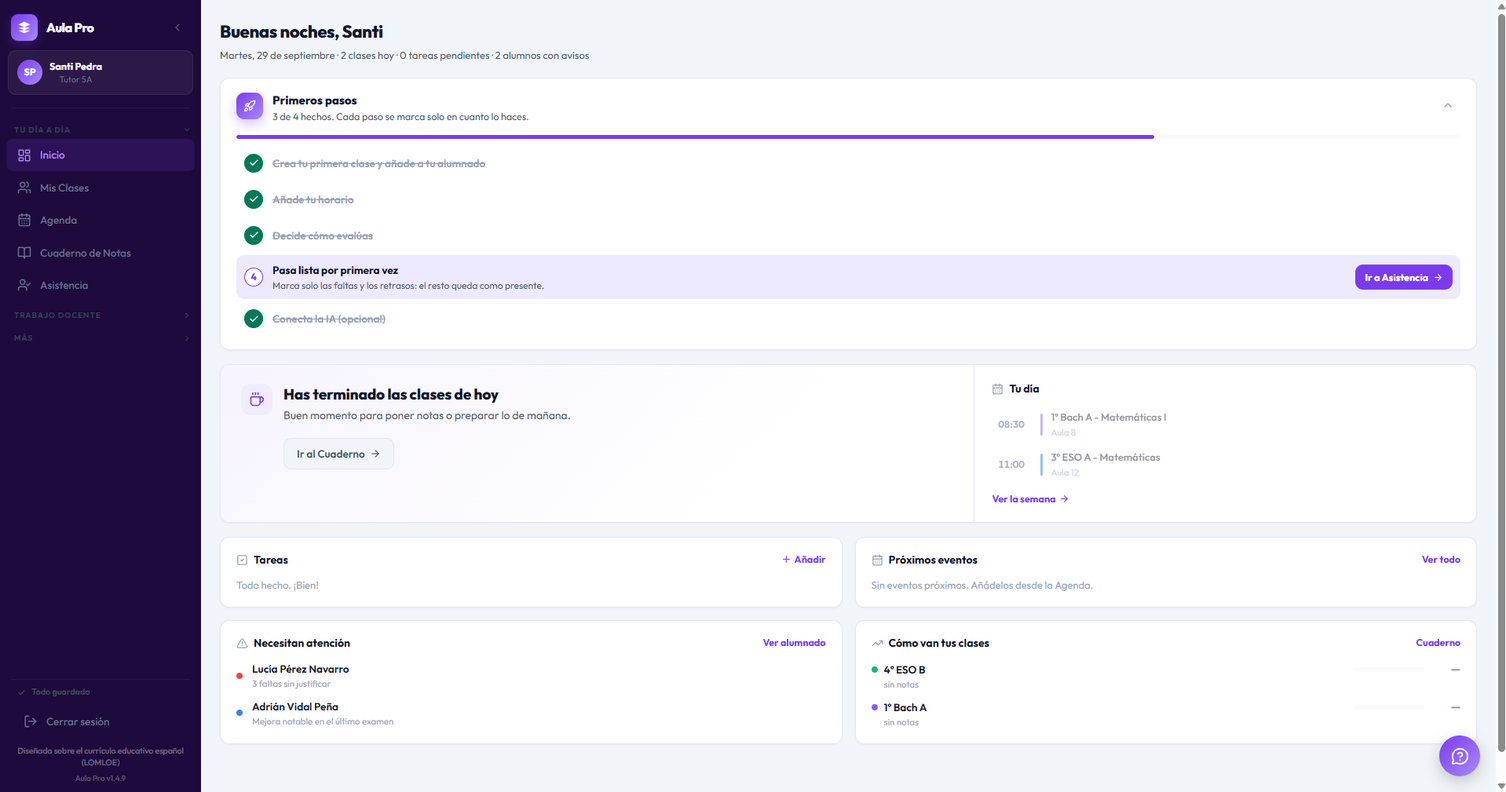
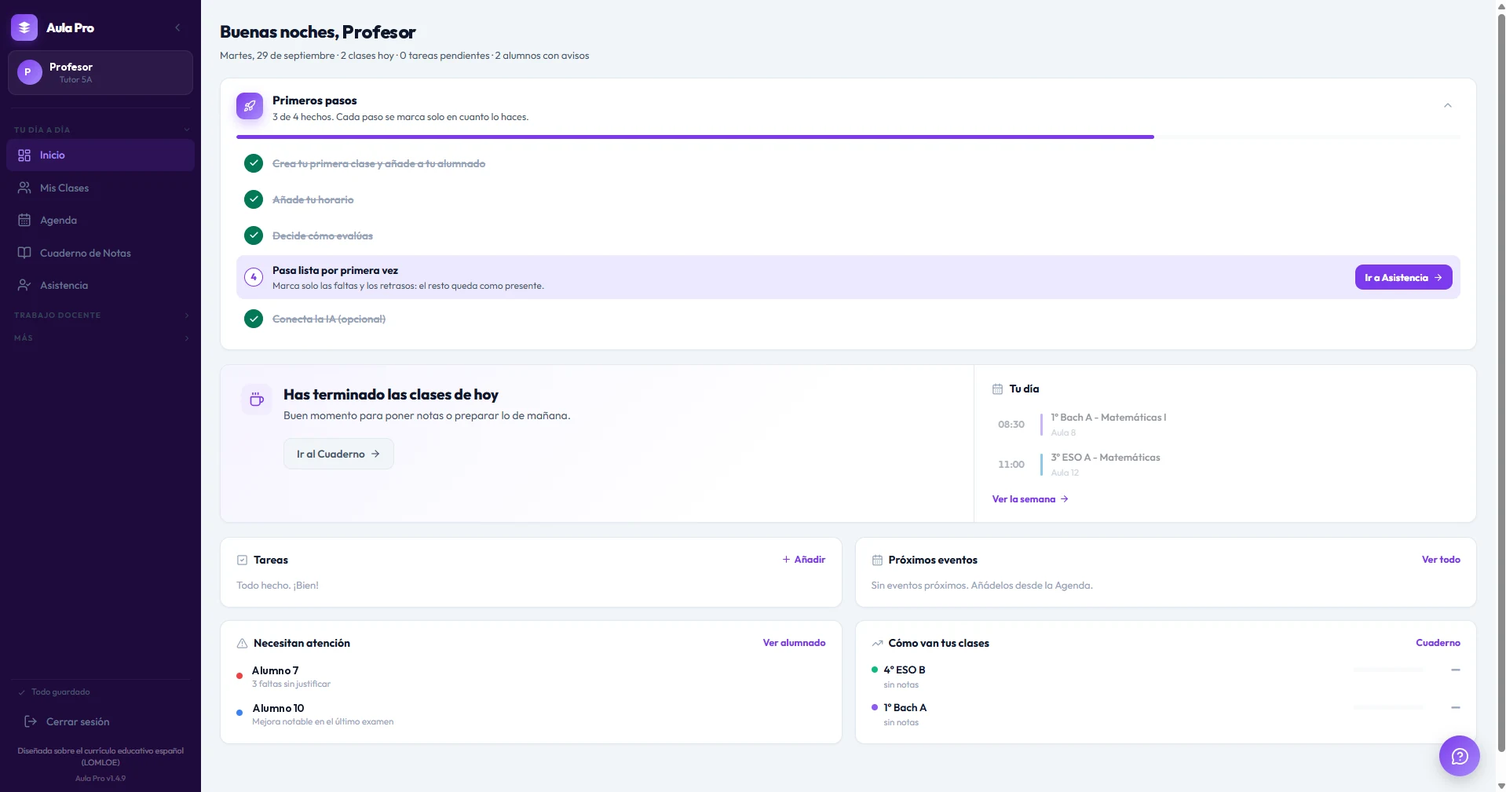
Nombres de prueba: Profesor, Alumno 1, Alumno 2…
- Datos de ejemplo de la app (general, PT y AL y EF): el docente es
  «Profesor» y el alumnado «Alumno N». nombreDePila y nombresCortos
  tratan «Alumno 7» como un nombre entero y no como «Alumno».
- Ejemplos de la ayuda, marcadores de posición y pruebas, al mismo criterio.
- Web: capturas de la portada y de la demo retocadas con los nombres nuevos,
  el disco de la ruleta y las etiquetas de demo.js y demo.html.
- CLAUDE.md, regla 7, y web/DISENO.md, sección 33.

Claude-Session: https://claude.ai/code/session_011D5JkoSKU9Gzf2MU8yBeJo

diff --git a/src/lib/demoData.ts b/src/lib/demoData.ts
@@ -13,16 +13,16 @@ export const DEMO_COMMUNITY: ComunidadId = 'comunitat-valenciana';
 export const DEMO_USER: User = {
   id: 'demo-uid-001',
   email: 'demo@aulapro.es',
-  full_name: 'Ana García Ruiz',
+  full_name: 'Profesor',
   school: 'IES Ejemplo',
   subject: 'Matemáticas',
-  initials: 'AG',
+  initials: 'P',
 };
 
 const DEMO_TASKS: Task[] = [
   { id: 't1', text: 'Corregir exámenes 3º ESO A',    priority: 'high',   done: false },
   { id: 't2', text: 'Preparar UD Fracciones',        priority: 'medium', done: false },
-  { id: 't3', text: 'Llamar a la familia de Marco R.', priority: 'high', done: false },
+  { id: 't3', text: 'Llamar a la familia de Alumno 1', priority: 'high', done: false },
   { id: 't4', text: 'Actualizar notas en Séneca',    priority: 'low',    done: true  },
 ];
 
@@ -46,19 +46,19 @@ const DEMO_CLASSES: Class[] = [
 ];
 
 const DEMO_STUDENTS: Student[] = [
-  { id:'s01', class_id:'c1', name:'Marco Rodríguez Gil',   email:'marco.r@ies.es',    photo:null, alerts:[{id:'al1',text:'Dificultades con fracciones',level:'warn'}], notes:'Necesita refuerzo en operaciones con fracciones.' },
-  { id:'s02', class_id:'c1', name:'Laura Sánchez Vega',    email:'laura.s@ies.es',    photo:null, alerts:[], notes:'' },
-  { id:'s03', class_id:'c1', name:'Pablo Martín Díaz',     email:'pablo.m@ies.es',    photo:null, alerts:[], notes:'Muy participativo.' },
-  { id:'s04', class_id:'c1', name:'Carmen López Soto',     email:'carmen.l@ies.es',   photo:null, alerts:[{id:'al2',text:'Faltas reiteradas',level:'danger'}], notes:'' },
-  { id:'s05', class_id:'c1', name:'Javier Ortega Ruiz',    email:'javier.o@ies.es',   photo:null, alerts:[], notes:'' },
-  { id:'s06', class_id:'c1', name:'Elena Castro Romero',   email:'elena.c@ies.es',    photo:null, alerts:[], notes:'' },
-  { id:'s07', class_id:'c2', name:'Lucía Pérez Navarro',   email:'lucia.p@ies.es',    photo:null, alerts:[{id:'al3',text:'3 faltas sin justificar',level:'danger'}], notes:'Tutoría con familia pendiente.' },
-  { id:'s08', class_id:'c2', name:'Daniel Gómez Herrera',  email:'daniel.g@ies.es',   photo:null, alerts:[], notes:'' },
-  { id:'s09', class_id:'c2', name:'Sara Iglesias Marín',   email:'sara.i@ies.es',     photo:null, alerts:[], notes:'' },
-  { id:'s10', class_id:'c2', name:'Adrián Vidal Peña',     email:'adrian.v@ies.es',   photo:null, alerts:[{id:'al4',text:'Mejora notable en el último examen',level:'info'}], notes:'' },
-  { id:'s11', class_id:'c3', name:'María Delgado Ferrer',  email:'maria.d@ies.es',    photo:null, alerts:[], notes:'' },
-  { id:'s12', class_id:'c3', name:'Rubén Ortiz Salas',     email:'ruben.o@ies.es',    photo:null, alerts:[], notes:'' },
-  { id:'s13', class_id:'c3', name:'Patricia Nieto Ramos',  email:'patricia.n@ies.es', photo:null, alerts:[], notes:'' },
+  { id:'s01', class_id:'c1', name:'Alumno 1',  email:'alumno1@ies.es',  photo:null, alerts:[{id:'al1',text:'Dificultades con fracciones',level:'warn'}], notes:'Necesita refuerzo en operaciones con fracciones.' },
+  { id:'s02', class_id:'c1', name:'Alumno 2',  email:'alumno2@ies.es',  photo:null, alerts:[], notes:'' },
+  { id:'s03', class_id:'c1', name:'Alumno 3',  email:'alumno3@ies.es',  photo:null, alerts:[], notes:'Muy participativo.' },
+  { id:'s04', class_id:'c1', name:'Alumno 4',  email:'alumno4@ies.es',  photo:null, alerts:[{id:'al2',text:'Faltas reiteradas',level:'danger'}], notes:'' },
+  { id:'s05', class_id:'c1', name:'Alumno 5',  email:'alumno5@ies.es',  photo:null, alerts:[], notes:'' },
+  { id:'s06', class_id:'c1', name:'Alumno 6',  email:'alumno6@ies.es',  photo:null, alerts:[], notes:'' },
+  { id:'s07', class_id:'c2', name:'Alumno 7',  email:'alumno7@ies.es',  photo:null, alerts:[{id:'al3',text:'3 faltas sin justificar',level:'danger'}], notes:'Tutoría con familia pendiente.' },
+  { id:'s08', class_id:'c2', name:'Alumno 8',  email:'alumno8@ies.es',  photo:null, alerts:[], notes:'' },
+  { id:'s09', class_id:'c2', name:'Alumno 9',  email:'alumno9@ies.es',  photo:null, alerts:[], notes:'' },
+  { id:'s10', class_id:'c2', name:'Alumno 10', email:'alumno10@ies.es', photo:null, alerts:[{id:'al4',text:'Mejora notable en el último examen',level:'info'}], notes:'' },
+  { id:'s11', class_id:'c3', name:'Alumno 11', email:'alumno11@ies.es', photo:null, alerts:[], notes:'' },
+  { id:'s12', class_id:'c3', name:'Alumno 12', email:'alumno12@ies.es', photo:null, alerts:[], notes:'' },
+  { id:'s13', class_id:'c3', name:'Alumno 13', email:'alumno13@ies.es', photo:null, alerts:[], notes:'' },
 ];
 
 const DEMO_BLOCKS: ScheduleBlock[] = [

diff --git a/src/services/appHelp.ts b/src/services/appHelp.ts
@@ -217,7 +217,7 @@ Tiene DOS PESTAÑAS arriba:
    exporta a Excel.
 2. «✨ Consulta IA»: el asistente pedagógico que SÍ VE LOS DATOS del docente
    (clases, medias, asistencia, evaluaciones, agenda). Ahí es donde se pregunta
-   «¿cómo va Marta?», «¿quién va justo en 2ºB?» o «proponme refuerzo». Se puede
+   «¿cómo va Alumno 1?», «¿quién va justo en 2ºB?» o «proponme refuerzo». Se puede
    acotar a una clase o desactivar el acceso a los datos.
 Bloque «Trabajo diario y actitud»: en cuanto se hace alguna anotación del
 aula desde la Distribución de aula, el cuaderno añade este bloque, que vale
@@ -250,7 +250,7 @@ formaron los grupos» o «Rotada N veces»), un indicador («Todos sentados» o
   roles cooperativos (Portavoz, Secretario/a, Responsable del material,
   Responsable del tiempo) y su responsabilidad.
 - «✨ Repartir con IA» abre una ventana donde se escriben, si se quiere,
-  aspectos a tener en cuenta («Marco y Lucía no deben ir juntos») y se pulsa
+  aspectos a tener en cuenta («Alumno 1 y Alumno 2 no deben ir juntos») y se pulsa
   «Generar grupos con IA». La IA reparte al alumnado real en mesas EQUILIBRADAS
   y MULTINIVEL usando la media ponderada, la asistencia y los avisos de cada
   alumno, sin inventar ninguno. Sustituye la distribución que hubiera.
@@ -876,8 +876,8 @@ export function helpSystemPrompt(lang: Lang, section: string): string {
         ? '2. Be brief and practical: the exact route (“Sidebar → My Classes → New class”) and the steps in order. Two or three short paragraphs at most, or a short list.'
         : '2. Sé breve y práctico: la ruta exacta («barra lateral → Mis Clases → Nueva clase», o «Documentos → Actas» para las pantallas agrupadas) y los pasos en orden. Dos o tres párrafos cortos como mucho, o una lista breve.',
       lang === 'en'
-        ? '3. You do NOT see the teacher\'s classes, students or marks. If they ask about their own data (“how is Marta doing?”), point them to the Gradebook’s “Consulta IA” tab, which does.'
-        : '3. TÚ NO VES las clases, los alumnos ni las notas de este docente. Si te preguntan por sus datos («¿cómo va Marta?»), mándalos a la pestaña «Consulta IA» del Cuaderno de Notas, que es la que sí los ve.',
+        ? '3. You do NOT see the teacher\'s classes, students or marks. If they ask about their own data (“how is Student 1 doing?”), point them to the Gradebook’s “Consulta IA” tab, which does.'
+        : '3. TÚ NO VES las clases, los alumnos ni las notas de este docente. Si te preguntan por sus datos («¿cómo va Alumno 1?»), mándalos a la pestaña «Consulta IA» del Cuaderno de Notas, que es la que sí los ve.',
       lang === 'en'
         ? '4. When your answer points to one screen, end the message with its marker on its own line: [IR:id] (for example [IR:classes]). Only one, only from the manual’s ids, and never mention the marker in the text.'
         : '4. Cuando tu respuesta lleve a una pantalla concreta, termina el mensaje con su marca en una línea aparte: [IR:id] (por ejemplo [IR:classes]). Solo una, solo de los identificadores del manual, y no menciones nunca la marca en el texto.',

diff --git a/src/lib/demoApoyo.ts b/src/lib/demoApoyo.ts
@@ -10,7 +10,7 @@ import type {
 } from '../types/apoyo';
 
 export const DEMO_APOYO_USER = {
-  full_name: 'Laura Martí Navarro',
+  full_name: 'Profesor',
   school: 'CEIP Ejemplo',
   subject: 'Pedagogía Terapéutica y Audición y Lenguaje',
 };
@@ -28,13 +28,13 @@ export function buildDemoApoyo(hoy: Date = new Date()): ApoyoData {
     categorias, diagnostico, necesidades, notas: '',
   });
   const alumnos = [
-    al('demo-a1', 'Marta Gil Soler', '4º B', 4, 2, ['Discapacidad intelectual'], 'Discapacidad intelectual leve',
+    al('demo-a1', 'Alumno 1', '4º B', 4, 2, ['Discapacidad intelectual'], 'Discapacidad intelectual leve',
       'Le cuesta mantener la atención más de diez minutos. Aprende mejor con apoyo visual y tareas cortas. Se motiva con los juegos.'),
-    al('demo-a2', 'Pau Ruiz Ferrer', '3º A', 3, 2, ['Dificultades específicas de aprendizaje (dislexia, discalculia…)', 'Trastorno por déficit de atención e hiperactividad (TDAH)'], 'Dislexia y TDAH',
+    al('demo-a2', 'Alumno 2', '3º A', 3, 2, ['Dificultades específicas de aprendizaje (dislexia, discalculia…)', 'Trastorno por déficit de atención e hiperactividad (TDAH)'], 'Dislexia y TDAH',
       'Lectura lenta, con sustituciones de letras. Buena comprensión oral y mucho interés por los animales.'),
-    al('demo-a3', 'Aitana López Vidal', '2º A', 2, 1, ['Trastorno del desarrollo del lenguaje y la comunicación'], 'Trastorno del desarrollo del lenguaje (TDL)',
+    al('demo-a3', 'Alumno 3', '2º A', 2, 1, ['Trastorno del desarrollo del lenguaje y la comunicación'], 'Trastorno del desarrollo del lenguaje (TDL)',
       'Frases cortas y vocabulario reducido. Entiende mejor con imágenes y gestos.'),
-    al('demo-a4', 'Hugo Sanz Moreno', '5º A', 5, 3, ['Trastorno del espectro del autismo (TEA)', 'Discapacidad motora'], 'TEA; hemiparesia leve en el lado derecho',
+    al('demo-a4', 'Alumno 4', '5º A', 5, 3, ['Trastorno del espectro del autismo (TEA)', 'Discapacidad motora'], 'TEA; hemiparesia leve en el lado derecho',
       'Necesita anticipación y agenda visual. Le cuesta la interacción en grupo y la escritura a mano; muy buena memoria visual.'),
   ];
   const f = (dia: number, inicio: string, fin: string) => ({ dia, inicio, fin });

diff --git a/src/i18n/core.ts b/src/i18n/core.ts
@@ -1668,7 +1668,7 @@ const EN: Record<string, string> = {
   'Convoca': 'Called by',
   'Entidad y ponente': 'Provider and trainer',
   'Ej: Jefatura de estudios': 'e.g. Head of studies',
-  'Ej: CEFIRE · Marta Ruiz': 'e.g. Teacher training centre · Marta Ruiz',
+  'Ej: CEFIRE · Profesor': 'e.g. Teacher training centre · Teacher',
   'Lugar': 'Place',
   'Ej: Sala de profesores': 'e.g. Staff room',
   'Ej: En línea': 'e.g. Online',
@@ -1755,7 +1755,7 @@ const EN: Record<string, string> = {
   '(asiento libre)': '(empty seat)',
   'Alumnos por mesa': 'Students per table',
   'Anota las conclusiones y los acuerdos del grupo.': 'Notes down the group\'s conclusions and agreements.',
-  'Aspectos a tener en cuenta (opcional): p. ej. «Marco y Lucía no deben ir juntos»': 'Anything to bear in mind (optional): e.g. “Marco and Lucía shouldn\'t be together”',
+  'Aspectos a tener en cuenta (opcional): p. ej. «Alumno 1 y Alumno 2 no deben ir juntos»': 'Anything to bear in mind (optional): e.g. “Student 1 and Student 2 shouldn\'t be together”',
   'Aula {room}': 'Room {room}',
   'Configuración de mesas y roles': 'Table and role settings',
   'Controla el tiempo de la tarea y el volumen de voz.': 'Keeps track of time and the noise level.',
@@ -1831,7 +1831,7 @@ const EN: Record<string, string> = {
   'Arrastra a un alumno hasta un asiento, o tócalo y después toca el asiento.': 'Drag a student onto a seat, or tap them and then tap the seat.',
   'Se sustituirá la distribución actual de {clase}.': 'This will replace the current layout for {clase}.',
   'Aspectos a tener en cuenta (opcional)': 'Anything to bear in mind (optional)',
-  'p. ej. «Marco y Lucía no deben ir juntos»': 'e.g. “Marco and Lucía shouldn\'t be together”',
+  'p. ej. «Alumno 1 y Alumno 2 no deben ir juntos»': 'e.g. “Student 1 and Student 2 shouldn\'t be together”',
 
   /* ── Licencia ── */
   "Esa clave no existe. Cópiala tal cual del correo que recibiste al comprar.": "That key doesn't exist. Copy it exactly as it appears in your purchase email.",

diff --git a/src/i18n/ca.ts b/src/i18n/ca.ts
@@ -1495,7 +1495,7 @@ export const CA: Record<string, string> = {
   "Convoca": "Convoca",
   "Entidad y ponente": "Entitat i ponent",
   "Ej: Jefatura de estudios": "Ex.: Cap d'estudis",
-  "Ej: CEFIRE · Marta Ruiz": "Ex.: CRP · Marta Ruiz",
+  "Ej: CEFIRE · Profesor": "Ex.: CRP · Professor",
   "Lugar": "Lloc",
   "Ej: Sala de profesores": "Ex.: Sala de professors",
   "Ej: En línea": "Ex.: En línia",
@@ -1548,7 +1548,7 @@ export const CA: Record<string, string> = {
   "(asiento libre)": "(seient lliure)",
   "Alumnos por mesa": "Alumnes per taula",
   "Anota las conclusiones y los acuerdos del grupo.": "Anota les conclusions i els acords del grup.",
-  "Aspectos a tener en cuenta (opcional): p. ej. «Marco y Lucía no deben ir juntos»": "Aspectes que cal tenir en compte (opcional): p. ex. «Marc i Lúcia no han d'anar junts»",
+  "Aspectos a tener en cuenta (opcional): p. ej. «Alumno 1 y Alumno 2 no deben ir juntos»": "Aspectes que cal tenir en compte (opcional): p. ex. «Alumne 1 i Alumne 2 no han d'anar junts»",
   "Aula {room}": "Aula {room}",
   "Configuración de mesas y roles": "Configuració de taules i rols",
   "Controla el tiempo de la tarea y el volumen de voz.": "Controla el temps de la tasca i el volum de veu.",
@@ -1620,7 +1620,7 @@ export const CA: Record<string, string> = {
   "Arrastra a un alumno hasta un asiento, o tócalo y después toca el asiento.": "Arrossega un alumne fins a un seient, o toca'l i després toca el seient.",
   "Se sustituirá la distribución actual de {clase}.": "Se substituirà la distribució actual de {clase}.",
   "Aspectos a tener en cuenta (opcional)": "Aspectes que cal tenir en compte (opcional)",
-  "p. ej. «Marco y Lucía no deben ir juntos»": "p. ex. «Marc i Lúcia no han d'anar junts»",
+  "p. ej. «Alumno 1 y Alumno 2 no deben ir juntos»": "p. ex. «Alumne 1 i Alumne 2 no han d'anar junts»",
   "Emoji": "Emoji",
   "Horario": "Horari",
   "Castellano, catalán o inglés internacional.": "Castellà, català o anglès internacional.",

diff --git a/src/pages/Welcome.tsx b/src/pages/Welcome.tsx
@@ -4,7 +4,7 @@ import { Sparkles, Plus, ArrowRight, Trash2, HardDrive, Lock } from 'lucide-reac
 import { listProfiles, deleteProfile, isDesktop, type TeacherProfile, type NewProfileInput } from '../services/storage';
 import { CommunitySelect } from '../components/CommunitySelect';
 import type { ComunidadId } from '../lib/curriculum/comunidades';
-import { DEMO_COMMUNITY } from '../lib/demoData';
+import { DEMO_COMMUNITY, DEMO_USER } from '../lib/demoData';
 import { DEMO_APOYO_USER } from '../lib/demoApoyo';
 import { DEMO_EF_USER } from '../lib/demoEF';
 import { initials } from '../lib/utils';
@@ -212,7 +212,7 @@ export function Welcome({ onOpenProfile, onCreateProfile, onExploreDemo }: Props
         <form onSubmit={submit}>
           <div className="fgroup">
             <label className="flabel" htmlFor="welcome-f1">{t('Tu nombre *')}</label>
-            <input id="welcome-f1" className="finput" value={name} autoFocus placeholder="Ana García Ruiz"
+            <input id="welcome-f1" className="finput" value={name} autoFocus placeholder={t('Profesor')}
               onChange={e => { setName(e.target.value); if (error) setError(''); }} />
           </div>
           <TipoDocentePicker
@@ -274,7 +274,7 @@ export function Welcome({ onOpenProfile, onCreateProfile, onExploreDemo }: Props
                 especialidades: especialidades.length ? especialidades : ['PT', 'AL'],
                 subject: t(especialidadTexto(especialidades.length ? especialidades : ['PT', 'AL'])),
               }
-              : { name: 'Ana García Ruiz', school: 'IES Ejemplo', subject: 'Matemáticas', course: currentCourse(), community: DEMO_COMMUNITY })}
+              : { name: DEMO_USER.full_name, school: 'IES Ejemplo', subject: 'Matemáticas', course: currentCourse(), community: DEMO_COMMUNITY })}
             style={{
               display: 'flex', alignItems: 'center', justifyContent: 'center', gap: 7,
               width: '100%', marginTop: 14, padding: '11px 0', background: 'none',

diff --git a/src/pages/ef/EfEquipos.test.tsx b/src/pages/ef/EfEquipos.test.tsx
@@ -16,7 +16,7 @@ import type { AttendanceMap } from '../../types';
 
 const demo = buildDemoEF(new Date(2026, 9, 5));
 let ultimo: EfData = demo.ef;
-// Iker falta hoy en 1º ESO A
+// Alumno 2 falta hoy en 1º ESO A
 const attendance: AttendanceMap = { 'ef-c1': { '2026-10-05': { 'ef-s01': 'absent' } } };
 function Harness() {
   const [ef, setEf] = useState(demo.ef);
@@ -50,7 +50,7 @@ describe('Equipos', () => {
     expect(grupos).toHaveLength(3);
     expect(grupos.flat()).toHaveLength(7);
     expect(grupos.flat()).not.toContain('ef-s01');
-    // Mateo está lesionado: juega en su equipo, con su limitación y qué hace
+    // Alumno 4 está lesionado: juega en su equipo, con su limitación y qué hace
     expect(grupos.flat()).toContain('ef-s03');
     expect(screen.getAllByText(/No puede correr/).length).toBeGreaterThan(0);
 
@@ -66,10 +66,10 @@ describe('Equipos', () => {
   it('el nivel y el sexo se marcan en la tabla, y las parejas que separar se añaden', async () => {
     const user = userEvent.setup();
     render(<Harness />);
-    await user.click(within(screen.getByRole('radiogroup', { name: 'Nivel de Nora Ferrer Gil' })).getByRole('radio', { name: '3' }));
+    await user.click(within(screen.getByRole('radiogroup', { name: 'Nivel de Alumno 1' })).getByRole('radio', { name: '3' }));
     expect(ultimo.niveles['ef-s00']).toBe(3);
     // Otro toque en el sexo marcado lo quita
-    await user.click(within(screen.getByRole('radiogroup', { name: 'Sexo de Nora Ferrer Gil' })).getByRole('radio', { name: 'Chica' }));
+    await user.click(within(screen.getByRole('radiogroup', { name: 'Sexo de Alumno 1' })).getByRole('radio', { name: 'Chica' }));
     expect(ultimo.sexos['ef-s00']).toBeUndefined();
 
     await user.selectOptions(screen.getByLabelText('Primer alumno de la pareja'), 'ef-s02');

diff --git a/web/sitio/assets/demo.js b/web/sitio/assets/demo.js
@@ -140,8 +140,8 @@
         [993, 725, 1056, 747, 't:task', 'Añadir tarea'],
         [1807, 725, 1864, 747, 'go:agenda', 'Ver todo'],
         [967, 831, 1056, 853, 'go:misclases', 'Ver alumnado'],
-        [297, 862, 560, 906, 'go:misclases', 'Lucía Pérez Navarro'],
-        [297, 910, 560, 954, 'go:misclases', 'Adrián Vidal Peña'],
+        [297, 862, 560, 906, 'go:misclases', 'Alumno 7'],
+        [297, 910, 560, 954, 'go:misclases', 'Alumno 10'],
         [1799, 831, 1864, 853, 'go:cuaderno', 'Cuaderno'],
         [1103, 862, 1300, 906, 'go:cuaderno', '4.º ESO B'],
         [1103, 910, 1300, 954, 'go:cuaderno', '1.º Bach A'],
@@ -206,10 +206,10 @@
         [833, 300, 1058, 425, 't:seat', 'Mesa 3'],
         [1103, 300, 1327, 425, 't:seat', 'Mesa 4'],
         [1372, 300, 1596, 425, 't:seat', 'Mesa 5'],
-        [295, 443, 519, 495, 't:student', 'Adrián Vidal Peña'],
-        [564, 443, 788, 514, 't:student', 'Daniel Gómez Herrera'],
-        [833, 443, 1058, 514, 't:student', 'Lucía Pérez Navarro'],
-        [1103, 443, 1327, 495, 't:student', 'Sara Iglesias Marín'],
+        [295, 443, 519, 495, 't:student', 'Alumno 10'],
+        [564, 443, 788, 514, 't:student', 'Alumno 8'],
+        [833, 443, 1058, 514, 't:student', 'Alumno 7'],
+        [1103, 443, 1327, 495, 't:student', 'Alumno 9'],
         [1832, 959, 1886, 1013, 't:help', 'Ayuda']
       ]
     },
@@ -732,7 +732,7 @@
     paintTimer();
 
     /* --- roulette --- */
-    const NAMES = ['Lucía', 'Daniel', 'Sara', 'Adrián', 'María', 'Rubén', 'Patricia'];
+    const NAMES = ['Alumno 7', 'Alumno 8', 'Alumno 9', 'Alumno 10', 'Alumno 11', 'Alumno 12', 'Alumno 13'];
     const disc = new Image();
     disc.className = 'disc';
     disc.alt = '';

diff --git a/src/pages/Reports.tsx b/src/pages/Reports.tsx
@@ -7,7 +7,7 @@ import type {
   GradeMap, AttendanceMap, CompetencyReport,
 } from '../types';
 import { callGemini, hasApiKey } from '../services/gemini';
-import { isoDate, PERIODS, LOMLOE_COMPETENCES } from '../lib/utils';
+import { isoDate, PERIODS, LOMLOE_COMPETENCES, nombreDePila } from '../lib/utils';
 import { useToast } from '../components/ui/Toast';
 import { ClassChips } from '../components/ui/ClassChips';
 import { AiKeyNotice } from '../components/ui/AiKeyNotice';
@@ -183,7 +183,7 @@ export function Reports(props: Props) {
   async function generateFor(student: Student): Promise<boolean> {
     const { text: evidence, hasData } = buildEvidence(student);
     if (!hasData) {
-      toast(`${student.name.split(' ')[0]} ${t('no tiene evaluaciones ni notas todavía')}`);
+      toast(`${nombreDePila(student.name)} ${t('no tiene evaluaciones ni notas todavía')}`);
       return false;
     }
 
@@ -581,7 +581,7 @@ function EmptyReport({
           {t('Sin datos suficientes')}
         </h3>
         <p style={{ fontSize: 13, color: 'var(--text-2)', lineHeight: 1.6, maxWidth: 400, margin: '0 auto 20px' }}>
-          {t('{name} no tiene todavía evaluaciones ni notas en el cuaderno. Un informe sin datos serían solo frases genéricas, así que es mejor evaluarle antes.', { name: student.name.split(' ')[0] })}
+          {t('{name} no tiene todavía evaluaciones ni notas en el cuaderno. Un informe sin datos serían solo frases genéricas, así que es mejor evaluarle antes.', { name: nombreDePila(student.name) })}
         </p>
         <div style={{ display: 'flex', gap: 10, justifyContent: 'center' }}>
           <button className="btn-ghost" onClick={() => onNav('rubrics')}>{t('Ir a Evaluación')}</button>

diff --git a/src/lib/demoEF.ts b/src/lib/demoEF.ts
@@ -8,7 +8,7 @@ import type { EfData, MarcaPrueba } from '../types/ef';
 import { EF_VACIO, hacerEquipos } from './ef';
 
 export const DEMO_EF_USER = {
-  full_name: 'Jordi Puig Serra',
+  full_name: 'Profesor',
   school: 'IES Ejemplo',
   subject: 'Educación Física',
 };
@@ -21,12 +21,12 @@ const clase = (id: string, name: string, curso: number, color: string): Class =>
 });
 
 const NOMBRES: [string, 'F' | 'M'][][] = [
-  [['Nora Ferrer Gil', 'F'], ['Iker Moreno Pastor', 'M'], ['Lucía Soler Vidal', 'F'], ['Mateo Ruiz Ortega', 'M'],
-    ['Aya Benali Romero', 'F'], ['Hugo Navarro Ríos', 'M'], ['Vega Martí Sanz', 'F'], ['Leo Castillo Prieto', 'M']],
-  [['Sofía Lozano Peña', 'F'], ['Álex Molina Torres', 'M'], ['Carla Rubio Méndez', 'F'], ['Izan Garrido León', 'M'],
-    ['Emma Herrero Cano', 'F'], ['Bruno Santos Vega', 'M'], ['Lola Iglesias Pons', 'F'], ['Marc Domènech Roca', 'M']],
-  [['Paula Crespo Nieto', 'F'], ['Daniel Vicente Mora', 'M'], ['Inés Gallego Solà', 'F'], ['Pablo Esteve Marín', 'M'],
-    ['Julia Pascual Ibáñez', 'F'], ['Adrián Blasco Ferrer', 'M'], ['Martina Sáez Llopis', 'F'], ['Hugo Bravo Cortés', 'M']],
+  [['Alumno 1', 'F'], ['Alumno 2', 'M'], ['Alumno 3', 'F'], ['Alumno 4', 'M'],
+    ['Alumno 5', 'F'], ['Alumno 6', 'M'], ['Alumno 7', 'F'], ['Alumno 8', 'M']],
+  [['Alumno 9', 'F'], ['Alumno 10', 'M'], ['Alumno 11', 'F'], ['Alumno 12', 'M'],
+    ['Alumno 13', 'F'], ['Alumno 14', 'M'], ['Alumno 15', 'F'], ['Alumno 16', 'M']],
+  [['Alumno 17', 'F'], ['Alumno 18', 'M'], ['Alumno 19', 'F'], ['Alumno 20', 'M'],
+    ['Alumno 21', 'F'], ['Alumno 22', 'M'], ['Alumno 23', 'F'], ['Alumno 24', 'M']],
 ];
 
 export function buildDemoEF(hoy: Date = new Date()) {

diff --git a/src/pages/ClassroomLive.tsx b/src/pages/ClassroomLive.tsx
@@ -4,7 +4,7 @@ import {
   ClipboardCheck, Plus, Trash2, Monitor, Wifi, ArrowRight, Save, Target,
 } from 'lucide-react';
 import type { Class, Student, Rubric, EvalDiana, SelfAssessmentSession } from '../types';
-import { isoDate } from '../lib/utils';
+import { isoDate, nombreDePila } from '../lib/utils';
 import type { ClassroomActivity, ClassroomSnapshot } from '../types/electron';
 import { SessionQR } from '../components/share/SessionQR';
 import { useToast } from '../components/ui/Toast';
@@ -506,7 +506,7 @@ function ResultsPanel({
 
       {pending.length > 0 && responses.length > 0 && (
         <p style={{ fontSize: 12, color: 'var(--text-3)', marginTop: 14, paddingTop: 12, borderTop: '0.5px solid var(--border)', lineHeight: 1.5 }}>
-          <strong>{t('Faltan:')}</strong> {pending.slice(0, 12).map(p => `${p.n}. ${p.name.split(' ')[0]}`).join(' · ')}
+          <strong>{t('Faltan:')}</strong> {pending.slice(0, 12).map(p => `${p.n}. ${nombreDePila(p.name)}`).join(' · ')}
           {pending.length > 12 && t(' y {n} más', { n: pending.length - 12 })}
         </p>
       )}
@@ -556,7 +556,7 @@ function BrainstormResults({ responses }: { responses: ClassroomSnapshot['respon
           }}
         >
           <div style={{ fontSize: 13, color: 'var(--text)', lineHeight: 1.45 }}>{x.idea}</div>
-          <div style={{ fontSize: 11, color: 'var(--text-3)', marginTop: 5 }}>{x.who.split(' ')[0]}</div>
+          <div style={{ fontSize: 11, color: 'var(--text-3)', marginTop: 5 }}>{nombreDePila(x.who)}</div>
         </div>
       ))}
     </div>

diff --git a/src/pages/apoyo/InicioApoyo.tsx b/src/pages/apoyo/InicioApoyo.tsx
@@ -9,7 +9,7 @@ import {
   CalendarDays, AlertTriangle, TrendingUp, ArrowRight, Check, Clock, Coffee, ChevronDown, Sparkles,
 } from 'lucide-react';
 import { useI18n } from '../../i18n';
-import { isoDate, fromIsoDate } from '../../lib/utils';
+import { isoDate, fromIsoDate, nombreDePila } from '../../lib/utils';
 import { trimestreDe } from '../../lib/apoyo';
 import { requestRegistro } from '../../lib/apoyoNav';
 import {
@@ -134,7 +134,7 @@ export function InicioApoyo({ nombre, data, onNav, onLoadDemo }: Props) {
                       <span>{grupo.especialidad} · {t(grupo.modalidad === 'dentro' ? 'Dentro del aula' : 'Fuera del aula')}</span>
                     </span>
                     <span className="ap-sub">
-                      {grupo.alumnos.map(id => data.alumnos.find(a => a.id === id)?.nombre.split(' ')[0]).filter(Boolean).join(', ')}
+                      {grupo.alumnos.map(id => data.alumnos.find(a => a.id === id)?.nombre).filter((n): n is string => !!n).map(nombreDePila).join(', ')}
                     </span>
                   </span>
                   {registrada ? (
@@ -248,7 +248,7 @@ function AvisoFila({ aviso, diaCorto, onRegistrar, onNav }: {
       <button className="home-link" onClick={accion}>{boton} <ArrowRight size={13} /></button>
     </li>
   );
-  const nombre = (n: string) => n.split(' ')[0];
+  const nombre = nombreDePila;
   switch (aviso.tipo) {
     case 'informes':
       return fila('warn', t('Se acaba el {n}º trimestre', { n: aviso.trimestre }),
